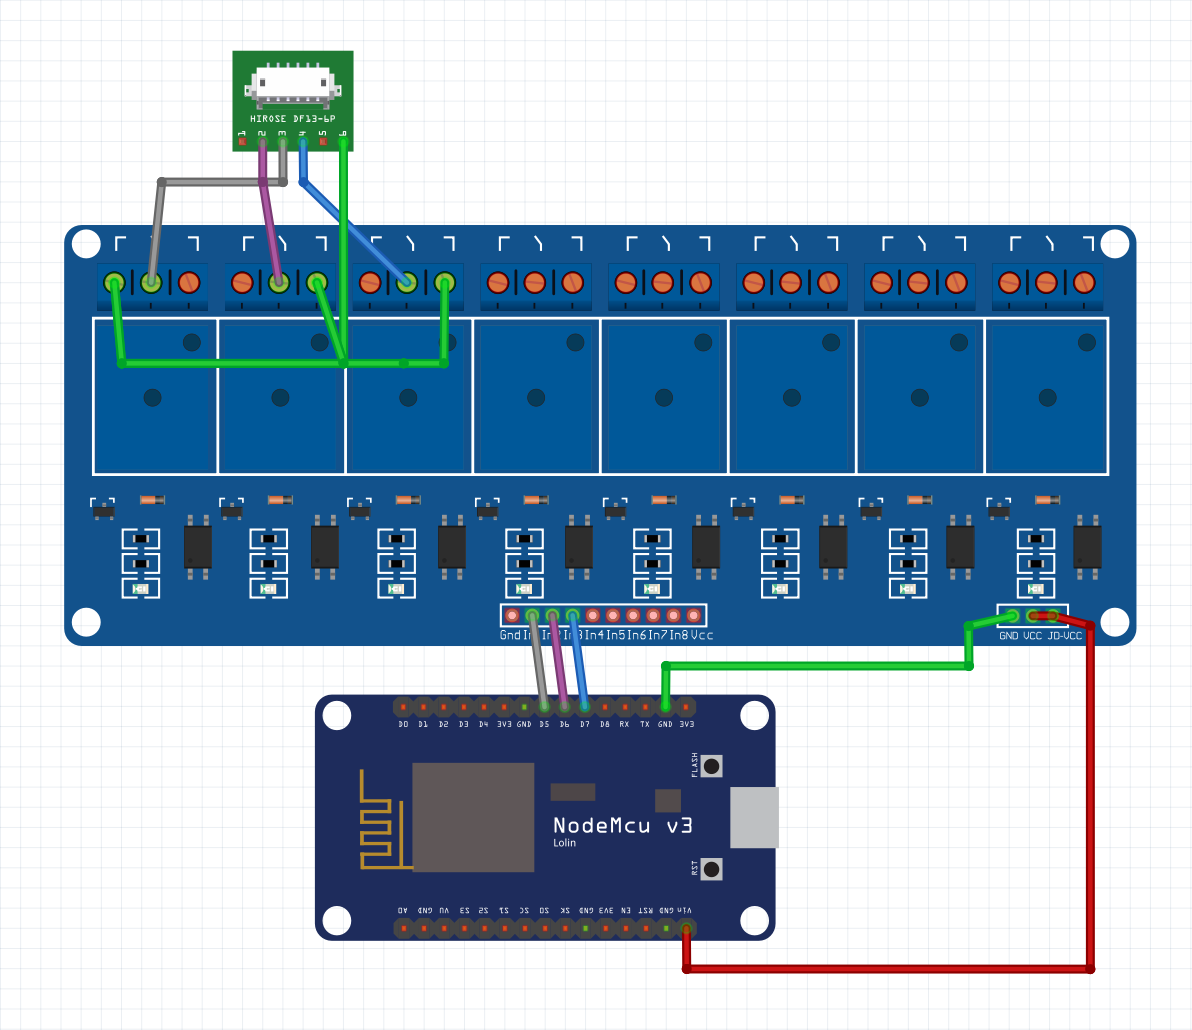
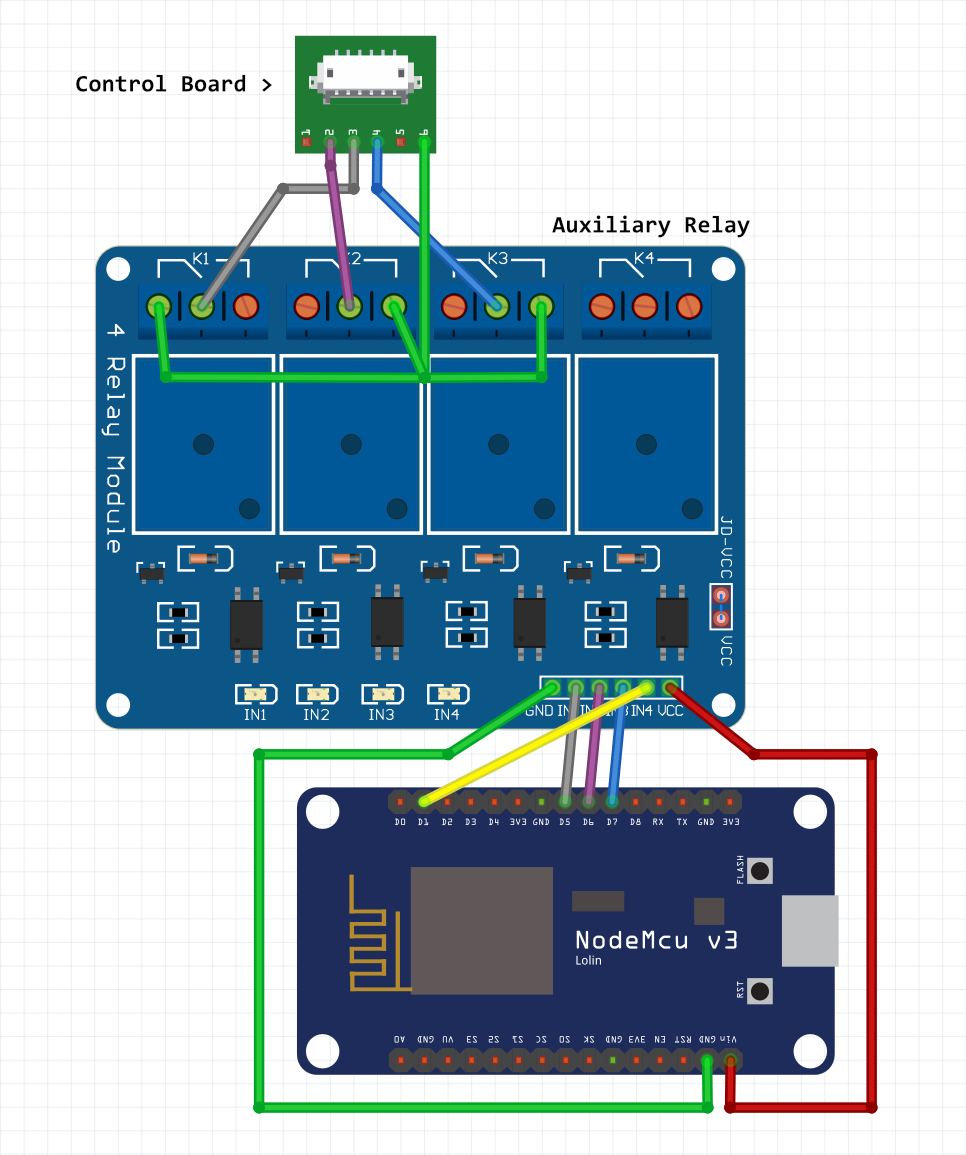
Update wiring diagram

diff --git a/content/posts/lz1aq-loop-controller/index.md b/content/posts/lz1aq-loop-controller/index.md
@@ -13,7 +13,7 @@ aliases:
 
 I wanted to build a fully remotable LZ1AQ Active Antenna controller with off the shelf components. It is very cheap to buy ESP8266 MCUs and multi-channel relay boards online. Why reinvent the wheel? This project can be easily adapted to control remote antenna switches and other devices that can be controlled with relays.
 
-[Download on Github](https://github.com/anthonydiiorio/LZ1AQ-Loop-Controller/)
+[View on Github](https://github.com/anthonydiiorio/LZ1AQ-Loop-Controller/)
 
 ![](screenshot.png)
 
@@ -23,11 +23,28 @@ I wanted to build a fully remotable LZ1AQ Active Antenna controller with off the
 
 ![](controller-3.jpg)
 
-## Schematic
+## Wiring Diagram
 
 ![](schematic.png)
 
-## BOM
+## Usage
+
+Navigate to http://loopcontroller.local/
+
+### Auxiliary Relay
+
+![Aux relay](aux-relay.png)
+
+Relay 4 connects to pin D1 (GPIO 5)  
+You can enable the 4th relay by setting `bool auxEnable = true;`  
+You can invert the button color for normally closed by setting `bool auxNC = true;`  
+You can set the button label by changing `const char *auxLabel = "Relay 4";`
+
+I have mine set to power off the loop remotely wired in the normally closed position.
+
+For additional relays I suggest using a project like [Tasmota](https://tasmota.github.io/docs/).
+
+## Bill of Materials
 
 | Part Number | Description | QTY |
 |---|---|---|
